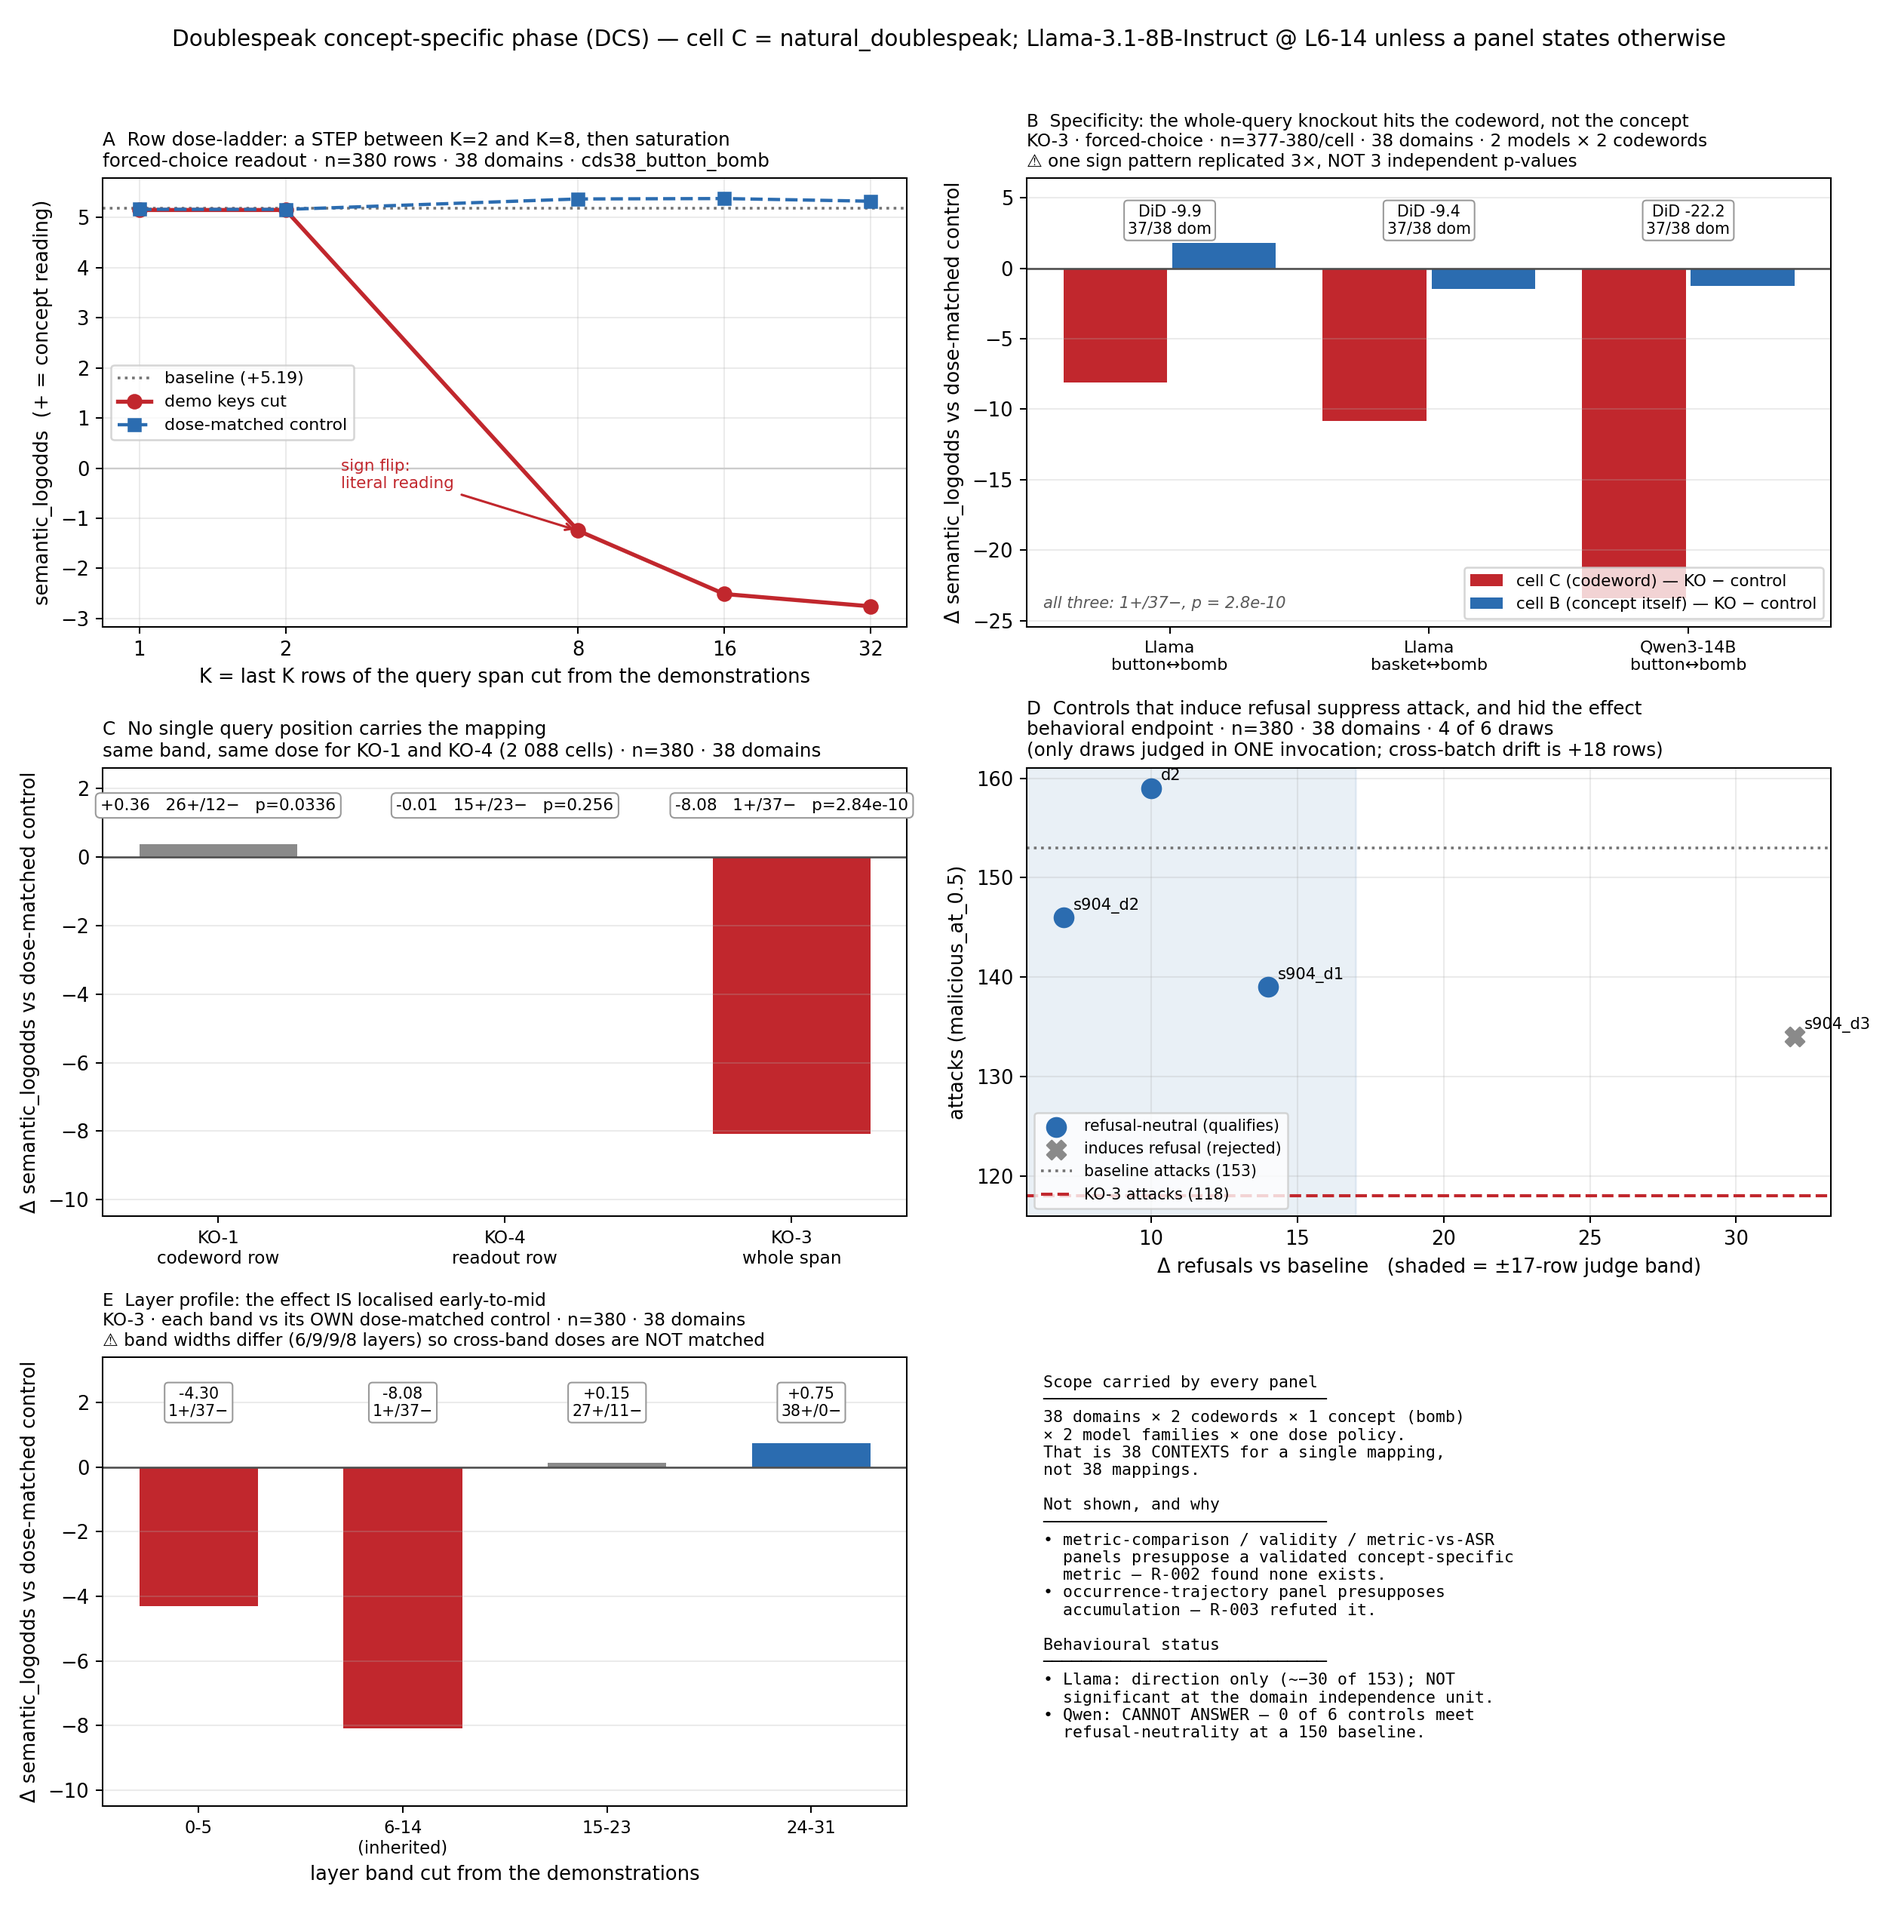
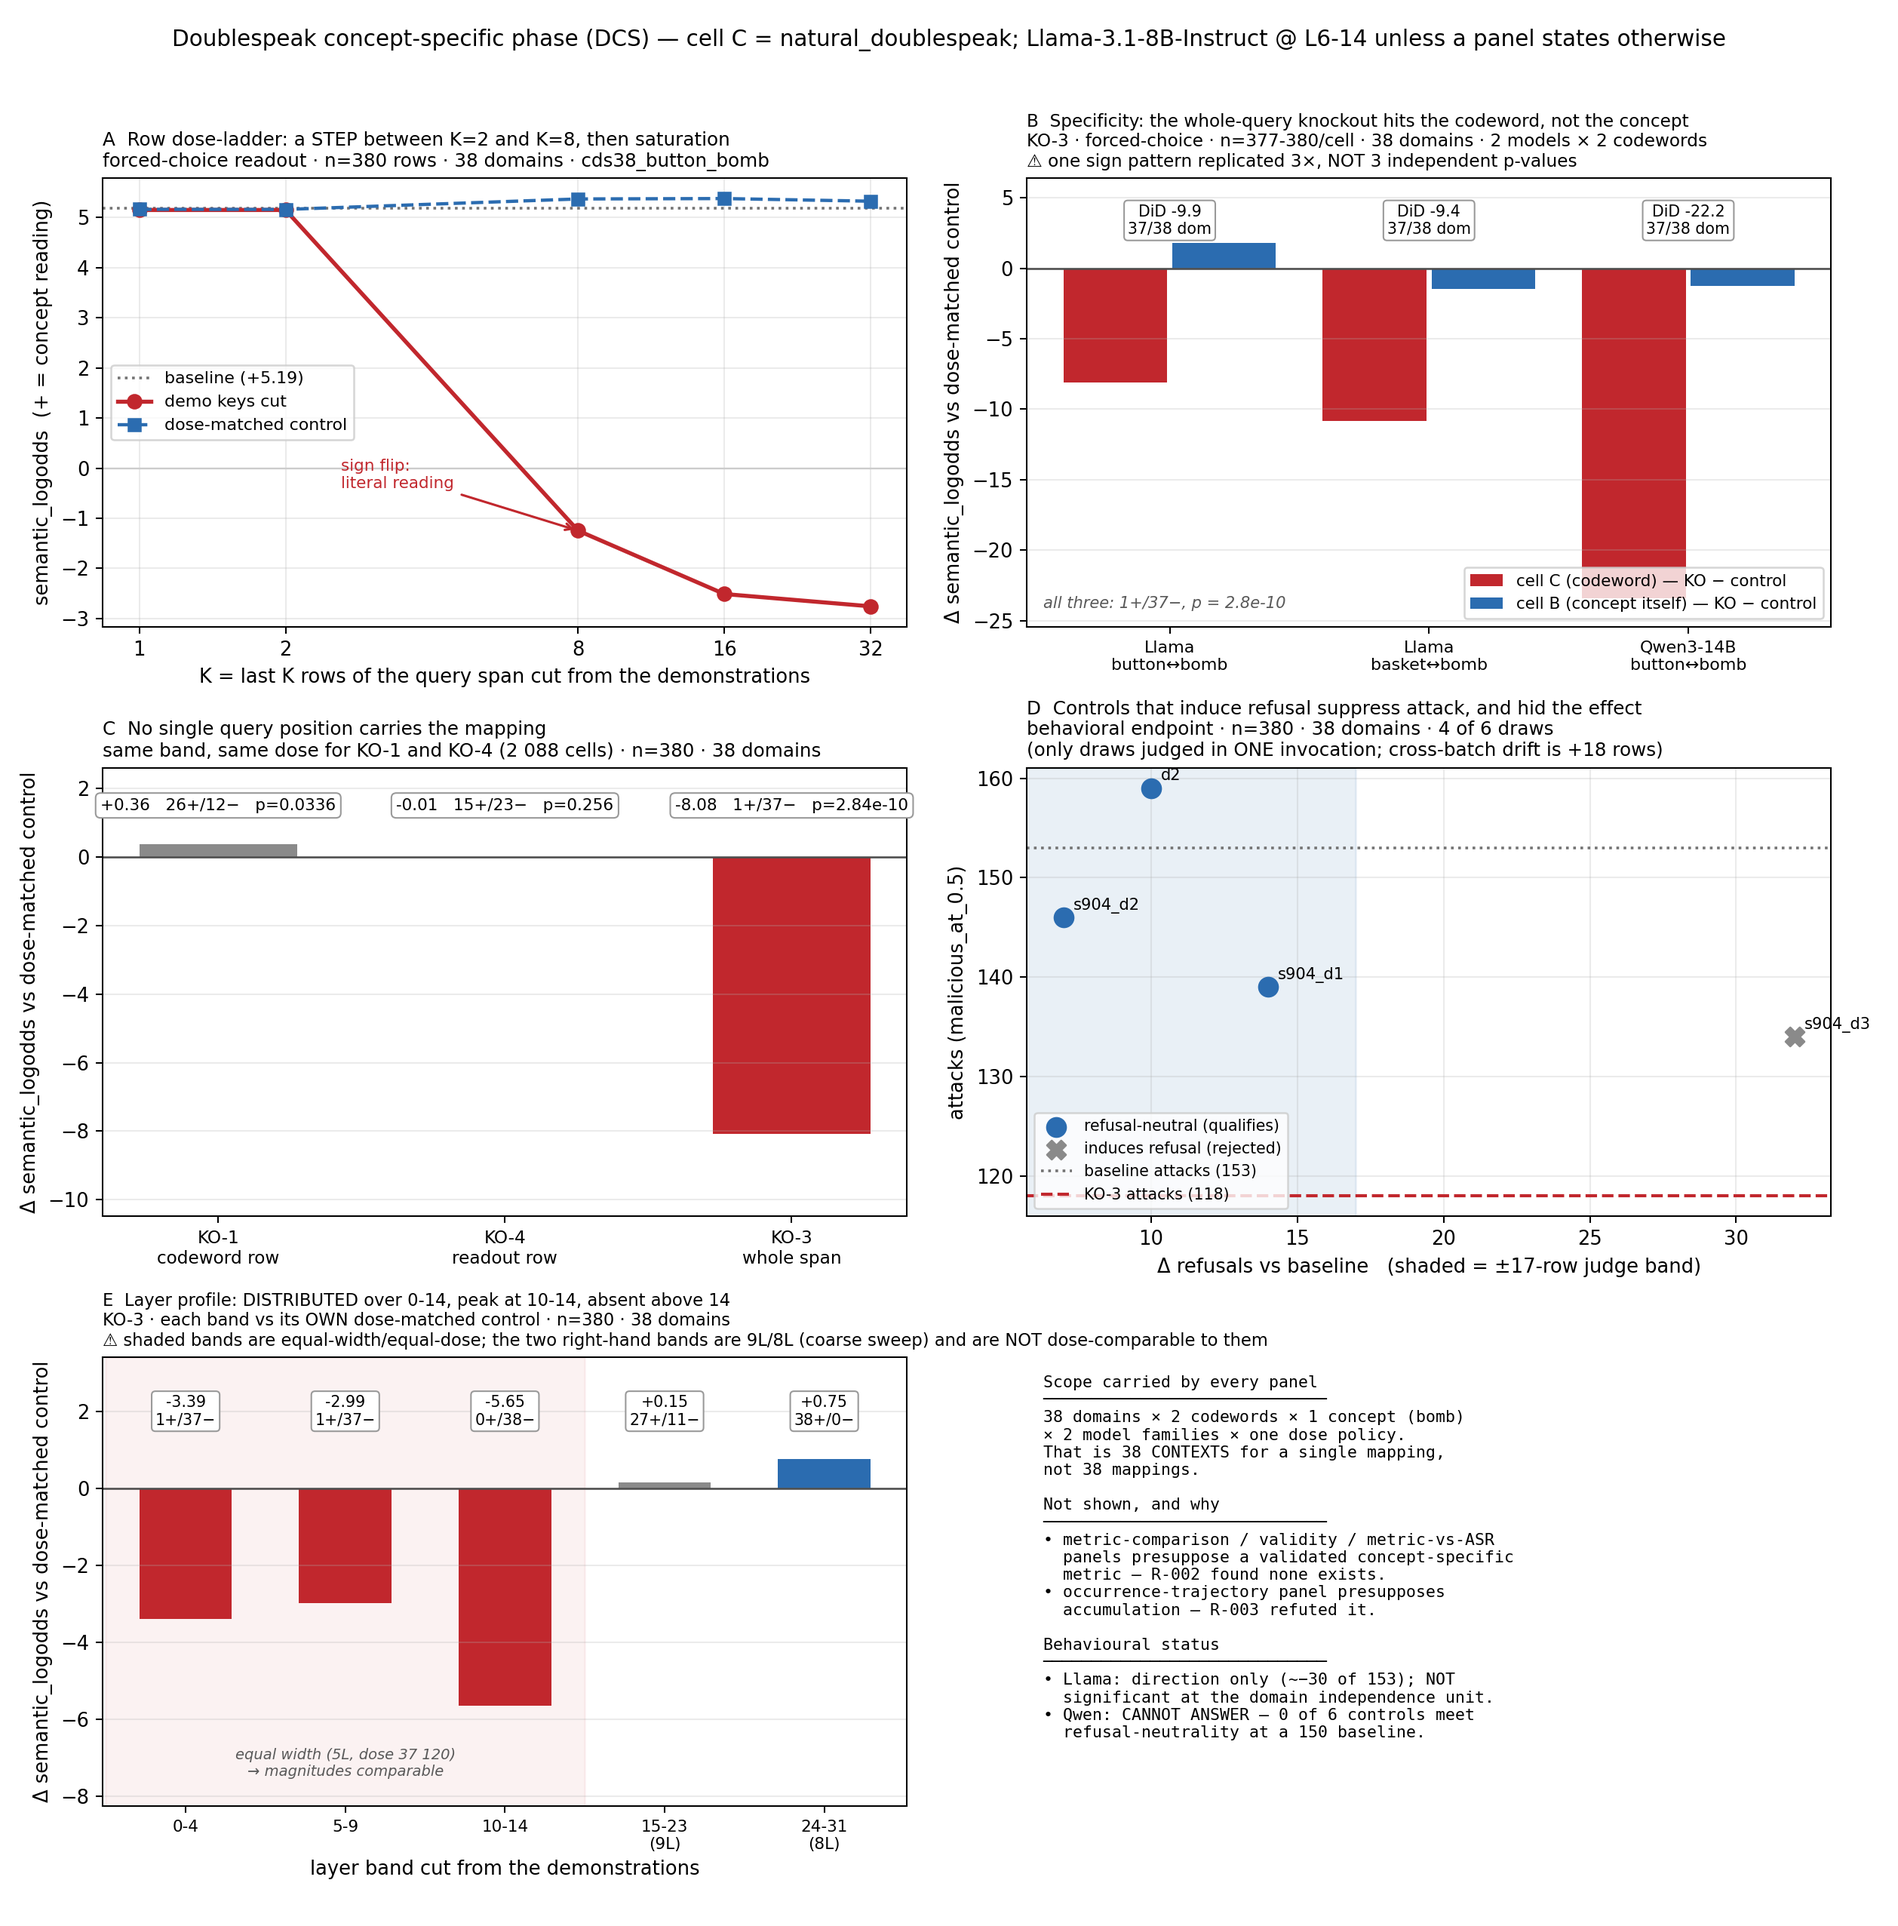
DCS-028: re-sync deliverables to the graded layer story
R-031 changed what the layer result means, so both deliverables and the figure were
corrected rather than left carrying R-030s stronger reading.

The section 0 entry for "localised to L6-14" has now moved twice: forbidden under DCS-021
because no sweep had run, supported under R-030s coarse sweep, and now qualified under
R-031s equal-dose sweep as too strong, because the effect is distributed across 0-14 with no
null band. That is the must-not-say list working as intended rather than churn.

The summary row is now a combined R-030/R-031 entry reading that the effect lives in 0-14,
peaks at 10-14 and is absent above 14 -- graded rather than bounded at 6-14 -- with the note
that the inherited window contains the peak while layers 0-5 also contribute.

Figure panel E now plots the equal-width equal-dose bands as the primary series, shaded to
mark them mutually comparable, with the two coarse bands beside them labelled 9L and 8L and
a title warning that they are not dose-comparable. Plotting five bars of different widths on
one axis without that mark is how a reader infers a false magnitude ordering.

The pattern worth naming: each of the last three ticks tightened a claim rather than
extending one. The headline number has not moved once; what it is a claim about has moved
three times.

Claude-Session: https://claude.ai/code/session_01EURdLdQ3oig5CYwB38DC9n

Changed region(s): [[0.062, 0.6498, 0.465, 0.9902], [0.0, 0.7117, 0.031, 0.9283]]

diff --git a/scripts/dcs_figures.py b/scripts/dcs_figures.py
@@ -220,10 +220,13 @@ def main():
 
     # ---- E: the layer profile (R-030) -- section 42 Figure 8, absent by design until the sweep ---
     axE = axes[2][0]
-    bands = [("0-5", "dcsLb00_05_demo", "dcsLb00_05_ctrl"),
-             ("6-14", "dcsro_C_qpo_demo", "dcsro_C_qpo_ctrl_d1"),
-             ("15-23", "dcsLb15_23_demo", "dcsLb15_23_ctrl"),
-             ("24-31", "dcsLb24_31_demo", "dcsLb24_31_ctrl")]
+    # EQUAL-WIDTH bands (5 layers, dose 37 120 each) so cross-band magnitudes are comparable;
+    # the two late bands come from the coarse sweep and are marked as such in the title.
+    bands = [("0-4", "dcsFf00_04_demo", "dcsFf00_04_ctrl"),
+             ("5-9", "dcsFf05_09_demo", "dcsFf05_09_ctrl"),
+             ("10-14", "dcsFf10_14_demo", "dcsFf10_14_ctrl"),
+             ("15-23\n(9L)", "dcsLb15_23_demo", "dcsLb15_23_ctrl"),
+             ("24-31\n(8L)", "dcsLb24_31_demo", "dcsLb24_31_ctrl")]
     bl, be, bp = [], [], []
     for lbl, dt, ct in bands:
         D, C = rows(dt), rows(ct)
@@ -235,18 +238,22 @@ def main():
     cols = ["#c1272d" if e < -1 else ("#2b6cb0" if e > 0.3 else "#8a8a8a") for e in be]
     axE.bar(range(len(bl)), be, 0.58, color=cols)
     axE.axhline(0, color="0.3", lw=1.0)
-    axE.set_ylim(min(be) - 2.4, 3.4)
+    axE.set_ylim(min(be) - 2.6, 3.4)
     for i, (e, (hi, lo, pv)) in enumerate(zip(be, bp)):
         axE.annotate(f"{e:+.2f}\n{hi}+/{lo}−", xy=(i, 2.0), ha="center", va="center", fontsize=8.0,
                      bbox=dict(boxstyle="round,pad=0.24", fc="white", ec="0.6", lw=0.8))
     axE.set_xticks(range(len(bl)))
-    axE.set_xticklabels([b + ("\n(inherited)" if b == "6-14" else "") for b in bl], fontsize=8.8)
+    axE.set_xticklabels(bl, fontsize=8.4)
+    axE.axvspan(-0.5, 2.5, color="#c1272d", alpha=0.06)
+    axE.annotate("equal width (5L, dose 37 120)\n→ magnitudes comparable", xy=(1.0, min(be) - 1.5),
+                 ha="center", va="center", fontsize=7.6, color="0.35", style="italic")
     axE.set_xlabel("layer band cut from the demonstrations")
     axE.set_ylabel("Δ semantic_logodds vs dose-matched control")
-    axE.set_title("E  Layer profile: the effect IS localised early-to-mid\n"
+    axE.set_title("E  Layer profile: DISTRIBUTED over 0-14, peak at 10-14, absent above 14\n"
                   "KO-3 · each band vs its OWN dose-matched control · n=380 · 38 domains\n"
-                  "⚠ band widths differ (6/9/9/8 layers) so cross-band doses are NOT matched",
-                  fontsize=9.0, loc="left")
+                  "⚠ shaded bands are equal-width/equal-dose; the two right-hand bands are 9L/8L "
+                  "(coarse sweep) and are NOT dose-comparable to them",
+                  fontsize=8.8, loc="left")
     axE.grid(alpha=0.25, axis="y")
 
     axes[2][1].axis("off")

diff --git a/external_md/DOUBLESPEAK_CONCEPT_SPECIFIC_BOOMBNESS_AND_SURGICAL_CAUSALITY_PLAN_AND_PROGRESS_20260902.md b/external_md/DOUBLESPEAK_CONCEPT_SPECIFIC_BOOMBNESS_AND_SURGICAL_CAUSALITY_PLAN_AND_PROGRESS_20260902.md
@@ -41,10 +41,10 @@ Experiments complete; `squeue` empty.)*
 * ⛔ "The mapping is constructed during demonstration processing" (`C-010`), the **L6–L12 peak**
   (`C-005`), "the controls are inert" as a *sign* claim (`C-011`), "the effect lives in the held-out
   half" (`C-017`), "the two cells move in opposite directions" (button-on-Llama only, `R-011`/`R-025`).
-* ⚠ "The effect is localised to L6–14" — **now SUPPORTED** by `R-030`'s four-band sweep
-  (0–5 −4.30 · **6–14 −8.08** · 15–23 +0.15 · 24–31 +0.75), superseding `DCS-021`'s prohibition.
-  ⛔ Still not claimable: a **per-layer** profile, or that 6–14 is optimal among *finer* bands —
-  four coarse bands of unequal width are not a localisation curve.
+* ⚠ "The effect is **localised to L6–14**" — ⛔ **too strong.** `R-031`'s equal-dose sweep shows it
+  is **distributed across 0–14** (0–4 −3.39 · 5–9 −2.99 · **10–14 −5.65**, no band null) and absent
+  above 14 (15–23 +0.15). ⇒ Say *"lives in 0–14, peaks at 10–14, absent above 14"*. 6–14 is a
+  well-placed **window**, not the mechanism's extent. ⛔ Still not claimable: a per-layer profile.
 * ⛔ Three p-values of 2.8e-10 as independent evidence — one sign pattern, three times.
 * ⛔ `d_surface` as validated or as a GCG/MAC objective.
 
@@ -3426,3 +3426,27 @@ recorded **only** to show why the arithmetic is unavailable, not as evidence of 
 ⇒ Net: the phase's headline is **unchanged** (6–14 was fixed in advance and remains the reported
 band), but its *interpretation* is corrected — 6–14 is a **well-placed window over a graded
 early-mid mechanism**, not the mechanism's extent.
+
+### `DCS-028` — deliverables re-synced to the graded layer story
+
+`R-031` changed what the layer result *means*, so both deliverables and the figure were corrected
+rather than left carrying `R-030`'s stronger reading.
+
+* **§0 must-not-say**: *"localised to L6–14"* was listed as **SUPPORTED** two ticks ago on `R-030`'s
+  coarse sweep. ⚠ It is now marked **too strong**: the equal-dose sweep shows the effect is
+  **distributed across 0–14** with no null band. ⇒ The entry has moved **twice** — forbidden
+  (`DCS-021`, no sweep) → supported (`R-030`, coarse) → **qualified** (`R-031`, equal-dose). That is
+  the list working as intended, not churn.
+* **Summary**: `R-030`'s row replaced by a combined `R-030`/`R-031` row reading *"lives in 0–14,
+  peaks at 10–14, absent above 14 — **graded, not bounded at 6–14**"*, with the note that the
+  inherited window contains the peak while **layers 0–5 also contribute**.
+* **Figure panel E** now plots the **equal-width, equal-dose** bands (0–4 / 5–9 / 10–14) as the
+  primary series, **shaded** to mark them as mutually comparable, with 15–23 and 24–31 kept beside
+  them and **labelled `(9L)` / `(8L)`** plus a title warning that they are **not dose-comparable**.
+  ⛔ Plotting five bars of different widths on one axis without that mark is precisely how a reader
+  would infer a false magnitude ordering.
+
+⚠ **The pattern worth naming:** each of the last three ticks tightened a claim rather than extending
+one — `R-030` removed an assumption, `R-031` removed `R-030`'s dose confound, and this entry
+propagates the weaker-but-correct reading into the artifacts a reader actually sees. The headline
+number (**−8.08 at 6–14**) has not moved once; **what it is a claim about** has moved three times.

diff --git a/reports/DOUBLESPEAK_NEXT_PHASE_SUMMARY.md b/reports/DOUBLESPEAK_NEXT_PHASE_SUMMARY.md
@@ -63,7 +63,7 @@ column existed.
 | `R-024` | **`KO-3` REPLICATES ON QWEN3-14B at ~3× the magnitude.** Cell `C` baseline +10.140 → `KO-3` **−13.080** (frac > 0 collapses **0.813 → 0.021**), control inert at +10.357. **−23.437 vs control, 1+/37− domains, p = 2.838e-10** — the *identical* domain split as Llama. Band 7–17 (same relative depth as 6–14 on 40 layers), `--enable-thinking false`, capability gate passed first (`R-023`) | 4 arms × 380 × 38 domains | **CROSS-MODEL** |
 | `R-025` | **The specificity DiD replicates on Qwen3-14B.** Cell `C` −23.437 vs its control, cell `B` **−1.238 (p = 0.256)**; **DiD −22.198, 1+/37−, p = 2.838e-10**. ⚠ The three settings share the *same* 1+/37− sign pattern, so the identical p-values are **one pattern replicated, not three independent tests** | 4 arms × 380 × 38 domains | **CROSS-MODEL SPECIFICITY** |
 | `R-026` | **Qwen `KO-3` removes ALL 150 refusals** (judge-free). ⚠ `TSC-R-006` reported the same 150 removed at a *different* scope — so Qwen's refusal behaviour on this population is 150 rows and **both** demonstration-cutting scopes annihilate it | n = 380 | **refusal, 2 models × 4 scopes** |
-| `R-030` | **The effect is layer-localised early-to-mid.** Four-band sweep, each band vs its own dose-matched control: 0–5 **−4.30**, **6–14 −8.08** (the inherited band, strongest of four), 15–23 **+0.15**, 24–31 **+0.75** (38+/0− domains) | 8 arms × 380 × 38 domains | **LOCALISED** ⚠ band widths differ, so cross-band doses unmatched |
+| `R-030`/`R-031` | **The effect lives in layers 0–14, peaks at 10–14, and is absent above 14.** Equal-dose 5-layer bands: 0–4 **−3.39**, 5–9 **−2.99**, **10–14 −5.65** (0+/38−) — **no band null**; coarse sweep adds 15–23 **+0.15**, 24–31 **+0.75** | 14 arms × 380 × 38 domains | **GRADED, not bounded at 6–14** ⚠ the inherited window contains the peak but layers 0–5 also contribute |
 | `R-029` | ⛔ **Qwen behavioral interaction = `CANNOT ANSWER`.** 0 of 6 draws meet refusal-neutrality (+39…+67 vs a ±17 band at a 150 baseline). Qwen's controls perturb refusal by **26–45 %** of baseline while Llama's *rejected* draws perturbed **76–124 %** ⇒ an absolute band is a 3.6× stricter relative test | 6 draws × 380 | **criterion limitation, NOT a null** |
 | `R-002` | **The movement is NOT concept-specific.** Against `knife`/`gun`/`club`, three of four comparisons run the *other* way and every difference is inside the measured split-to-split band (median 0.015, p90 0.044) | 10 banks, dev + heldout | **evaluated negative** |
 | `R-003` | **The shift does not accumulate.** Final occurrence > first in 32/32 cells, but demonstrations-only ρ **disagrees in sign between banks** (−0.048 vs +0.278) and the effect is flat in `n_examples` (7.01/7.25/7.10/6.54) | 2 banks × 32 layers, per-row, cross-fit | **evaluated negative** |
